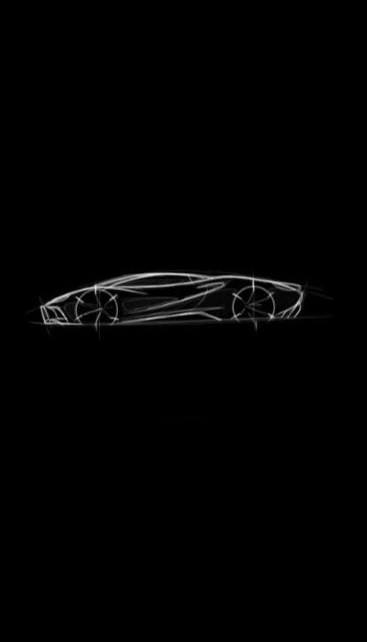
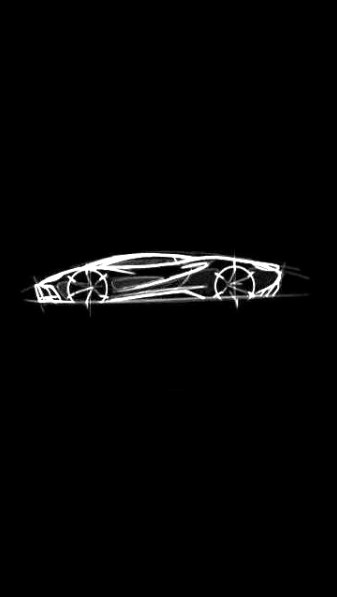
Updated Projects and Added Certificate link

Changed region(s): [[0.0593, 0.4221, 0.8605, 0.5126]]

diff --git a/index.html b/index.html
@@ -65,7 +65,7 @@
                 <div class="tab-contents" id="education">
                     <ul>
                         <li><span>Degree</span><br>Bsc. Computer Science - Information Security and System, MacEwan University<br><span>2021 - 2026</span></li>
-                        <li><span>Certification</span><br>CompTIA Security+</li>
+                        <li><span>Certification</span><br>CompTIA Security+ | <a href="https://www.credly.com/badges/17ec50a5-0b35-45e4-9bac-908b0ae6d154/public_url">verify</a>
                     </ul>
                 </div>
             </div>
@@ -78,42 +78,42 @@
         <h1 class="sub-title">My <span>Projects</span></h1>
         <div class="project-list">
             <div class="project">
-                <img src="./Images/cat_album.jpg">
+                <img src="./Images/enterprise_network.jpg">
                 <div class="layer">
-                    <h3>Cat SlideShow Album</h3>
-                    <p>A simple slideshow website<br><br>Developed with HTML5,CSS,JavaScript</p>
-                    <a href="https://ayubscode.github.io/Cat-Album/"><i class="fa-solid fa-arrow-up-right-from-square"></i></a>
+                    <h3>Enterprise Network Lab</h3>
+                    <p>Cisco Packet Tracer lab simulating a corporate network</p>
+                    <a href="https://github.com/AyubsCode/Cisco-Enterprise-Network-Lab"><i class="fa-solid fa-arrow-up-right-from-square"></i></a>
                 </div>    
             </div>
             <div class="project">
-                <img src="Images/Schedule_Planner.JPG">   
+                <img src="Images/phishing_ransomware.jpg">   
                 <div class="layer">
-                    <h3>Schedule Planner App</h3>
-                    <p>A simple event scheduler developed with a team for a hackathon event<br><br>Developed with Python,HTML5,CSS,JavaScript</p>
-                    <a href="https://ayubscode.github.io/Team_Alpha_Schedule_Planner/"><i class="fa-solid fa-arrow-up-right-from-square"></i></a>
+                    <h3>Phish2Ransom</h3>
+                    <p>Collaborated with a team to simulate a full phishing-to-ransomware attack chain, analyzing each stage of the threat lifecycle.<br><br>Developed in Python</p>
+                    <a href="https://github.com/AyubsCode/Phish2Ransom"><i class="fa-solid fa-arrow-up-right-from-square"></i></a>
                 </div>    
             </div>
             <div class="project">
                 <img src="Images/car_rental.JPG">   
                 <div class="layer">
                     <h3>Car Rental System</h3>
-                    <p>A team-built car rental system with vehicle management, customer reservations, and database integration.<br><br>Developed with C# and MySQL</p>
+                    <p>A team-built car rental system with vehicle management, customer reservations, and database integration.<br><br>Developed in C# and MySQL</p>
                     <a href="https://github.com/AyubsCode/Car-Rental-System"><i class="fa-solid fa-arrow-up-right-from-square"></i></a>
                 </div>    
             </div>
             <div class="project">
-                <img src="Images/led_link.JPG">   
+                <img src="Images/expense_tracker.jpg">   
                 <div class="layer">
-                    <h3>LED Link</h3>
-                    <p>An LED control system using Bluetooth Low Energy (BLE) on TI CC1350 board.<br><br>Work in Progress...</p>
-                    <a href="https://github.com/AyubsCode/LEDLink"><i class="fa-solid fa-arrow-up-right-from-square"></i></a>
+                    <h3>LedgerLite</h3>
+                    <p>personal expense tracker.<br><br>Developed in Kotlin</p>
+                    <a href="https://github.com/AyubsCode/LedgerLite"><i class="fa-solid fa-arrow-up-right-from-square"></i></a>
                 </div>               
             </div>
             <div class="project">
                 <img src="Images/lock_box.JPG">   
                 <div class="layer">
                     <h3>Password Manager</h3>
-                    <p>A C-based CLI password manager with secure password hashing and file encryption.</p>
+                    <p>CLI password manager with secure password hashing and file encryption.<br><br>Developed in C</p>
                     <a href="https://github.com/AyubsCode/Password-Manager"><i class="fa-solid fa-arrow-up-right-from-square"></i></a>
                 </div>  
             </div>